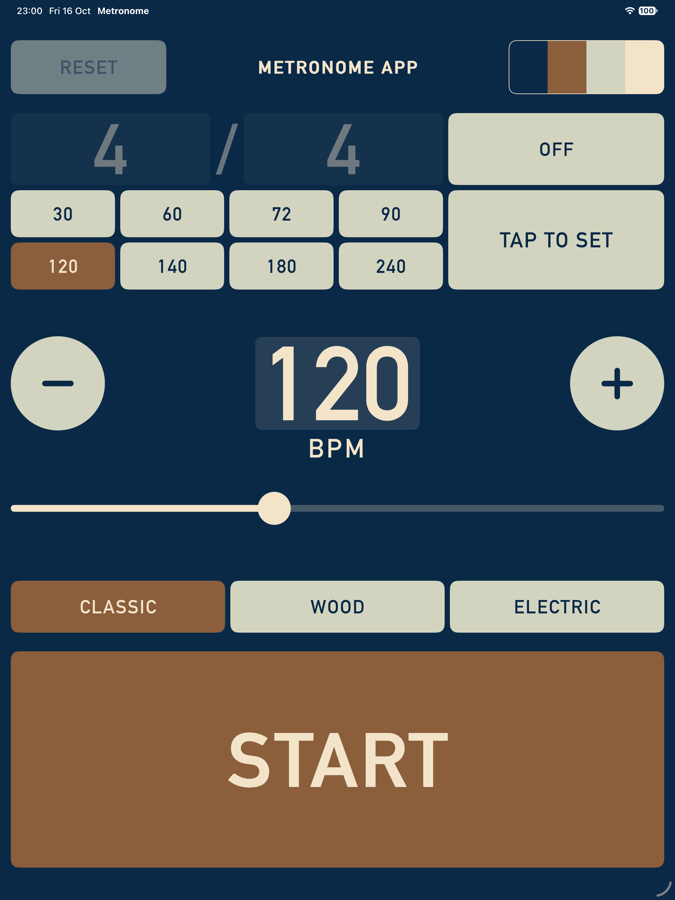
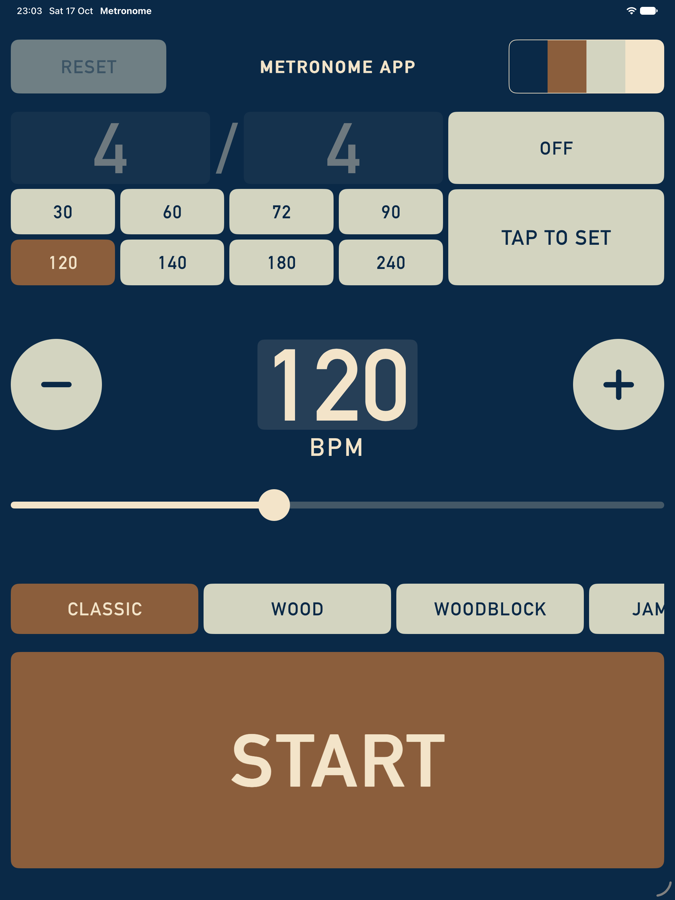
Stop the sound row at its column's sides and refresh README screenshots
In landscape the sound buttons ran behind START to the screen edge. The row
now clips at its left and right edges only, so easter egg tiles can still
fall down the screen.

diff --git a/Metronome/ContentView.swift b/Metronome/ContentView.swift
@@ -393,8 +393,9 @@ struct ContentView: View {
                 }
             }
             // Let knocked-off tiles tumble down the screen rather than vanish at the
-            // row's edge, and leave room for the delete badges.
+            // row's edge, but stop the row at its sides, level with the other columns.
             .scrollClipDisabled()
+            .clipShape(SidesOnly())
             .onAppear { proxy.scrollTo(soundChoice.rawValue, anchor: .center) }
             .onChange(of: soundRowTarget) {
                 guard let soundRowTarget else { return }
@@ -695,6 +696,13 @@ struct ContentView: View {
 
     private func clamped(_ value: Int, to range: ClosedRange<Int>) -> Int {
         min(max(value, range.lowerBound), range.upperBound)
+    }
+}
+
+/// Clips at the left and right edges only, leaving the top and bottom open.
+private struct SidesOnly: Shape {
+    func path(in rect: CGRect) -> Path {
+        Path(CGRect(x: rect.minX, y: rect.minY - 10_000, width: rect.width, height: rect.height + 20_000))
     }
 }
 
